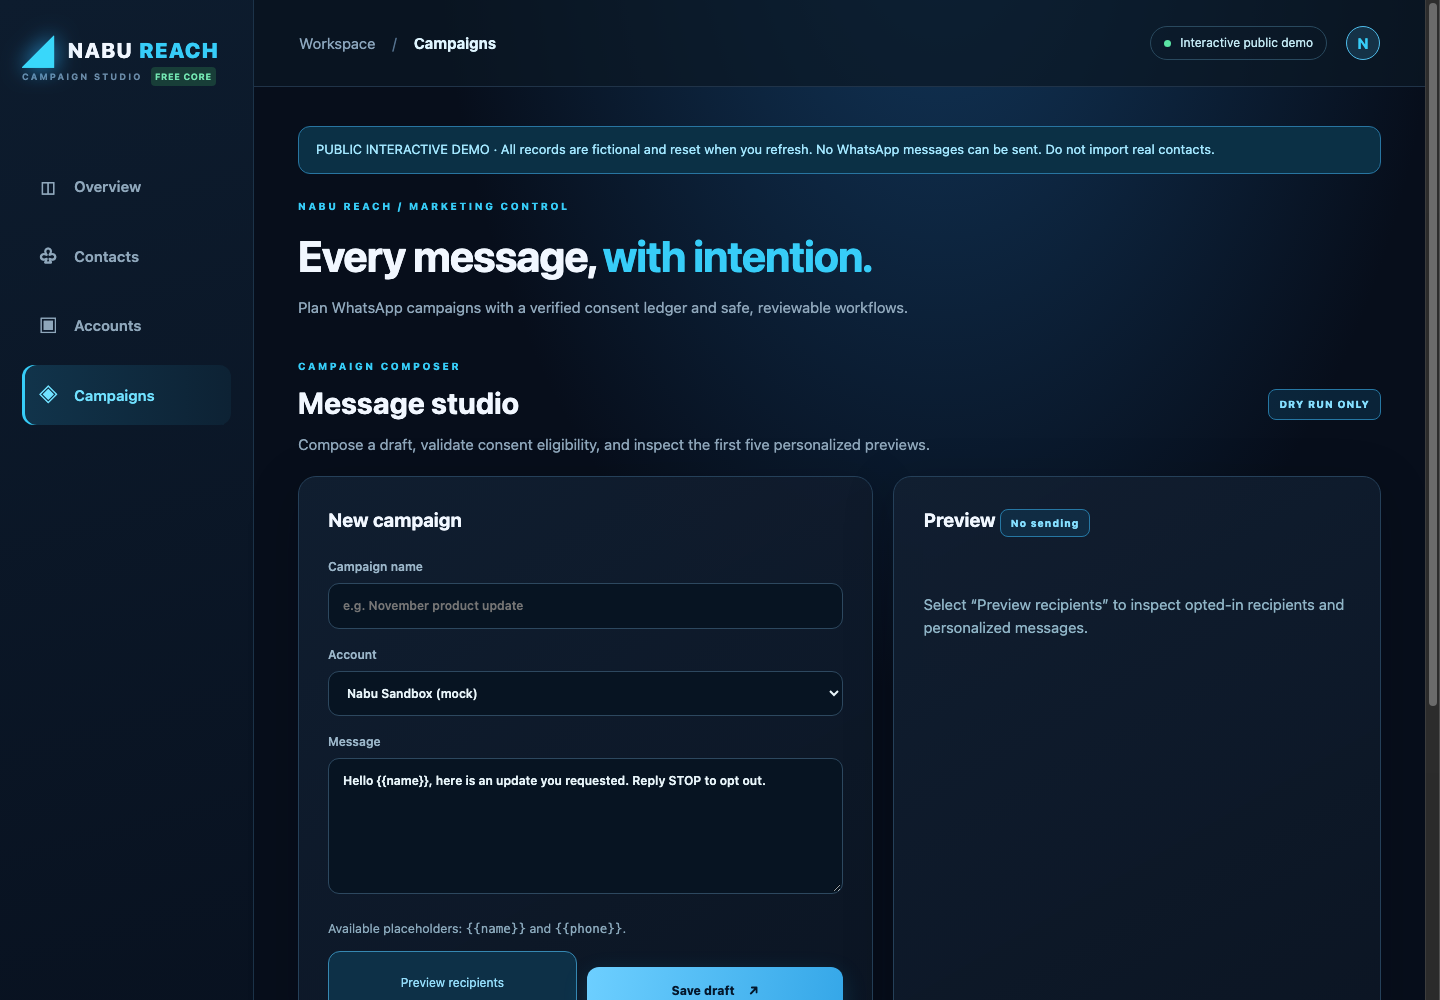
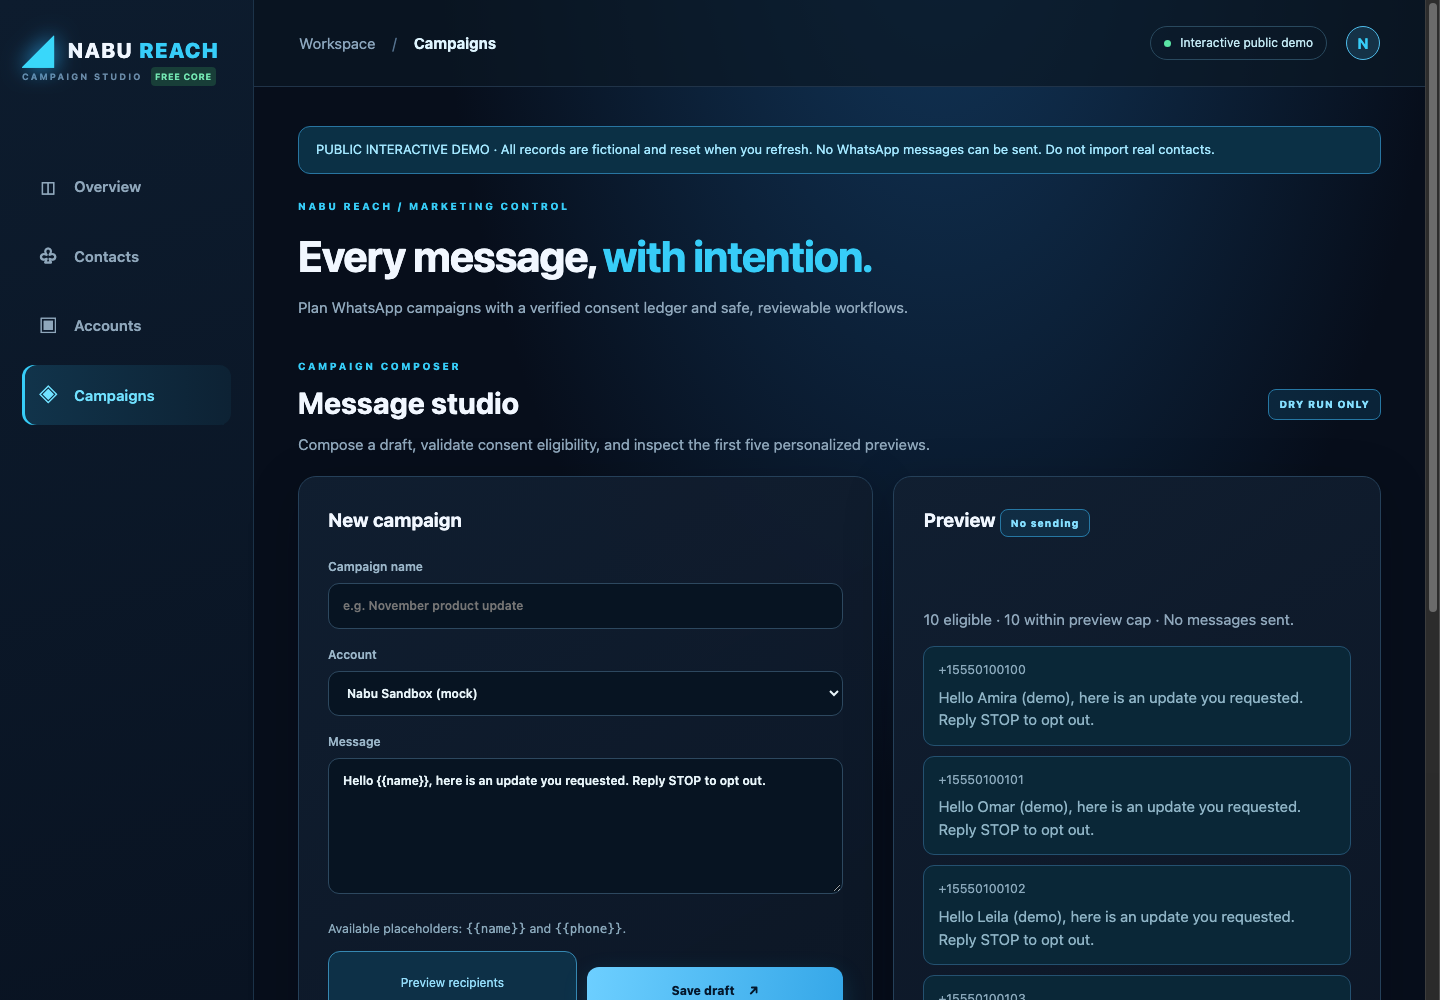
docs: visual README, screenshots and tested static demo

diff --git a/tests/test_demo.js b/tests/test_demo.js
@@ -1,0 +1,34 @@
+'use strict';
+const fs = require('node:fs');
+const vm = require('node:vm');
+const assert = require('node:assert/strict');
+const sandbox = {window:{},TextDecoder,Date,Error};
+vm.runInNewContext(fs.readFileSync('demo/mock.js','utf8'),sandbox);
+const api=sandbox.window.reachDemoApi;
+const post=(path,obj)=>api(path,{method:'POST',body:JSON.stringify(obj)});
+(async () => {
+  const summary=await api('/api/summary');
+  assert.equal(summary.accounts,3);
+  assert.equal(summary.contacts,12);
+  assert.equal(summary.opted_in,10);
+  assert.equal(summary.opted_out,2);
+  const preview=await post('/api/campaigns/preview',{message:'Hello {{name}}'});
+  assert.equal(preview.eligible,10);
+  assert.equal(preview.examples.length,5);
+  assert.match(preview.examples[0].message,/Amira/);
+  await post('/api/contacts/opt-out',{phone:'+15550100100'});
+  assert.equal((await api('/api/summary')).opted_in,9);
+  const csv='phone,name,consent,consent_source,consent_at\n+15550100100,Amira,yes,signup,2026-01-01T12:00:00Z\n+1555010999,Test,yes,signup,2026-01-01T12:00:00Z';
+  const imported=await api('/api/contacts/import',{method:'POST',body:csv});
+  assert.equal(imported.imported,1);
+  assert.equal(imported.skipped,1);
+  assert.equal((await api('/api/summary')).opted_in,10);
+  const account=await post('/api/accounts',{label:'Mock Partner',provider:'mock'});
+  assert.equal(account.status,'mock_ready');
+  await post('/api/campaigns',{name:'Demo draft',account_id:account.id,message:'Hi {{name}}'});
+  assert.equal((await api('/api/summary')).drafts,3);
+  let failed=false;
+  try{await post('/api/campaigns/preview',{message:'{{secret}}'});}catch(_){failed=true;}
+  assert.equal(failed,true);
+  console.log('Mock API checks passed: 14 assertions, no network sends');
+})().catch(e=>{console.error(e);process.exit(1)});

diff --git a/reach/web/app.js b/reach/web/app.js
@@ -14,6 +14,9 @@ function switchTab(tab){
   document.querySelectorAll('[data-tab]').forEach(e=>e.classList.toggle('active',e.dataset.tab===tab));
   $('currentTab').textContent=tab[0].toUpperCase()+tab.slice(1);location.hash=tab;
   refresh();
+  if(tab==="campaigns" && typeof window.reachDemoApi==="function") {
+    setTimeout(()=>$("previewBtn").click(),250); // simulated opt-in previews only
+  }
 }
 async function refresh(){
   try{

diff --git a/README.md b/README.md
@@ -1,122 +1,180 @@
-# Nabu Reach — WhatsApp Campaign Studio (MVP)
+<div align="center">
 
-**Free Core Forever.** Local-first, dependency-free campaign drafting and consent-ledger management for WhatsApp business messaging. This is a working **draft-only proof of concept**, not a live-sending tool.
+# ◢ NABU REACH
 
-![Status: draft-only](https://img.shields.io/badge/messaging-draft--only-blue)
+### WhatsApp Campaign Studio — every message, with intention.
 
-## What works today
+**A beautiful, self-hostable foundation for consent-first outreach, account organization, campaign drafts, and safe previews.**
 
-- Responsive dark-blue/cyan campaign dashboard with accounts, contacts, and drafts.
-- Multiple account records: `mock` is available; `meta_cloud`, `gowa`, and `evolution` are **setup placeholders**, not implemented connections.
-- CSV import with explicit opt-in evidence (`consent_source` and `consent_at`), validation, and row-level errors.
-- Opt-outs cannot be undone by subsequent CSV imports.
-- Message composition and `{{name}}` / `{{phone}}` previews for opted-in contacts only.
-- Draft persistence with SQLite and basic audit events. A hard cap of 50 preview recipients applies.
-- No live send endpoint, background queue, or provider credentials; the UI cannot send WhatsApp messages.
-- No external Python packages; unit/HTTP smoke tests run with the standard library.
+[![Free Core Forever](https://img.shields.io/badge/FREE%20CORE-FOREVER-16a085?style=for-the-badge)](LICENSE)
+[![MIT License](https://img.shields.io/badge/LICENSE-MIT-38bdf8?style=for-the-badge)](LICENSE)
+[![Demo: No Live Sending](https://img.shields.io/badge/DEMO-NO%20LIVE%20SENDING-314158?style=for-the-badge)](docs/SECURITY.md)
+
+**[Live interactive demo](https://reach.nabuxai.com)** · [Quick start](#quick-start) · [Architecture](#architecture) · [Roadmap](#roadmap)
+
+</div>
+
+> [!IMPORTANT]
+> **This release is a draft-only proof of concept.** The public website is an interactive **static simulation**: fictional contacts, no backend database, no credentials, no WhatsApp messages and no network API calls. Edits remain in your browser memory and reset on refresh. Do **not** upload real contact data to a public demo. The separate Python MVP below is **localhost-only** and has **no authentication**.
+
+## ✨ Product tour
+
+#### 01 — Command center
+A quiet navy/cyan workspace for managing account placeholders, verified consent, and draft activity.
+
+![Nabu Reach — actual browser screenshot of the overview](docs/assets/desktop-overview.png)
+
+#### 02 — Message studio
+Preview personalized messages against fictional, opted-in recipients. There is intentionally **no Send button**.
+
+![Nabu Reach — actual browser screenshot of the campaign composer](docs/assets/desktop-campaigns.png)
+
+#### 03 — Responsive by default
+Built for comfortable operation on desktop and compact screens.
+
+<p align="center"><img src="docs/assets/mobile-overview.png" width="340" alt="Nabu Reach mobile overview screenshot"></p>
+
+## What you can use today
+
+| Feature | Local MVP | Live static demo |
+| :-- | :--: | :--: |
+| Dark, responsive dashboard | ✅ | ✅ |
+| Multiple account records | ✅ | ✅ Simulated |
+| CSV contact import + opt-in evidence | ✅ SQLite | ✅ Browser memory |
+| Persistent opt-out suppression on re-import | ✅ | ✅ Within session |
+| Personalization with `{{name}}` and `{{phone}}` | ✅ | ✅ |
+| Recipient preview and campaign drafts | ✅ | ✅ Simulated |
+| Meta Cloud API / GOWA / Evolution adapter | 🔜 Not connected | — |
+| Multi-tenant authorization and roles | 🔜 | — |
+| Actual WhatsApp campaign delivery | **Disabled** | **Impossible** |
+
+**Transparent status matters:** connecting an account placeholder is not the same as a connected WhatsApp Business number. A production-grade sending engine, authentication, compliance controls, and delivery tracking are future work.
 
 ## Quick start
 
-Requirements: Python 3.11+.
+Requirements: Python 3.11+ and no third-party Python packages.
 
 ```bash
-python -m reach.server
-# Open http://127.0.0.1:8787
-python -m unittest discover -s tests -v
+git clone https://github.com/NabuxAi/nabu-reach.git
+cd nabu-reach
+
+# Local developer workspace (do not make this publicly reachable)
+python3 -m reach.server
+# http://127.0.0.1:8787
 ```
 
-Optional local data path:
+Run the test suite:
 
 ```bash
-DB_PATH=/tmp/nabu-reach.sqlite3 python -m reach.server
+python3 -m unittest discover -s tests -v
+node --check reach/web/app.js
+node --check demo/mock.js
 ```
 
-Docker (binds to host loopback only):
+Prefer Docker for the local-only developer app?
 
 ```bash
 docker compose up --build
-# Open http://127.0.0.1:8787
+# Binds only to 127.0.0.1:8787
 ```
 
-The MVP **has no user authentication**. Never publish its port directly to the Internet, place it on a shared computer, or load real customer data until authentication, encryption, retention and privacy requirements have been implemented and reviewed.
+### Static demo — no backend, no database
 
-## Example CSV
+```bash
+python3 demo/build.py
+python3 -m http.server 8081 --directory dist/demo
+# http://127.0.0.1:8081
+```
+
+Or build the static-only image:
+
+```bash
+docker build -f demo/Dockerfile -t nabu-reach-demo .
+docker run --rm -p 127.0.0.1:8081:8080 nabu-reach-demo
+```
+
+Public demo deployments must serve the **static build only**, never the unauthenticated Python API. A sample Traefik/Coolify-network Compose file is available at [deploy/compose.demo.yaml](deploy/compose.demo.yaml); adjust its router labels for your environment.
+
+## Campaign workflow
+
+```mermaid
+flowchart LR
+    A[Account placeholder] --> B[Import CSV]
+    B --> C{Consent evidence?}
+    C -->|No or opted out| D[Suppress contact]
+    C -->|Yes| E[Compose draft]
+    E --> F[Personalized preview]
+    F --> G[Save draft]
+    G --> H[No live send in MVP]
+```
+
+Example consent ledger:
 
 ```csv
 phone,name,consent,consent_source,consent_at
-+15550100101,Example Person,yes,demo_signup_form,2026-01-01T12:00:00Z
++15550100101,Example Person,yes,website_signup,2026-01-01T12:00:00Z
 ```
 
-Demo phone numbers are fictitious; do not message them. `consent` supports `yes`/`no`, `true`/`false`, `1`/`0`, or `opt_in`/`opt_out`. Phone numbers must be E.164 with a leading `+`. Opt-in requires a timestamp with a timezone and the source of that consent. Duplicate phone numbers are updated except that existing opt-outs remain opted out. All content remains local in SQLite.
+Phone numbers use E.164 format, and opt-ins require a source plus timezone-aware timestamp. Imported opt-outs are preserved, including when a later file claims that a suppressed contact opted in again. Never upload real recipient data to the public demo or a GitHub issue.
 
-## API (localhost only)
+## Architecture
 
-| Method | Endpoint | Purpose |
-| --- | --- | --- |
-| GET | `/healthz` | Draft-only health check |
-| GET | `/api/summary` | Workspace counts |
-| GET/POST | `/api/accounts` | Account placeholders |
-| GET | `/api/contacts` | Latest 200 ledger entries |
-| POST | `/api/contacts/import` | Raw `text/csv` import |
-| POST | `/api/contacts/opt-out` | Explicit opt-out by E.164 phone |
-| POST | `/api/campaigns/preview` | Consent-checked preview |
-| GET/POST | `/api/campaigns` | Save / list drafts |
+```mermaid
+flowchart TB
+  subgraph PublicDemo["Public demo — safely isolated"]
+    Browser[Browser-only UI] --> Mock[In-memory sample API]
+    Mock --> Fake[Fictional contacts and drafts]
+  end
+  subgraph LocalMVP["Local developer MVP — localhost only"]
+    UI[Vanilla HTML/CSS/JS] --> Server[Python standard-library HTTP API]
+    Server --> SQLite[(SQLite consent ledger and drafts)]
+    Server --> Disabled[No live send endpoints]
+  end
+  subgraph Future["Future — not implemented"]
+    Auth[Auth / RBAC / tenant isolation] --> Checks[Opt-in and template approval]
+    Checks --> Gateway[Official Meta Cloud API gateway]
+  end
+```
 
-Example:
+**We are not reinventing the messaging infrastructure.** The existing [NabuxAi/whatsapp-mcp](https://github.com/NabuxAi/whatsapp-mcp) project provides a separate gateway for official Meta WhatsApp Cloud API onboarding and MCP tools. The long-term plan is to integrate through a secured server-to-server boundary, not copy tokens or webhooks into this UI. Follow the [integration planning issue](https://github.com/NabuxAi/whatsapp-mcp/issues/1).
+
+## Safety and data privacy
+
+- **Opt-in first:** contacts must have a documented permission source and timestamp.
+- **Opt-out precedence:** CSV re-import must not re-subscribe a suppressed phone number.
+- **Preview-only by design:** neither demo nor MVP can send real messages.
+- **No evasion or spam:** no WhatsApp Web scraping, account rotation for bypassing bans, unsolicited bulk messaging, or rate-limit evasion.
+- **Public demo has no server data:** JavaScript fixtures are ephemeral and never transmitted to a backend.
+- **Local MVP is not a secure SaaS:** it lacks login, user isolation, encrypted SQLite storage, and a production retention/deletion process. Run on a trusted machine only.
+
+Read [Security notes](docs/SECURITY.md) before extending provider support. Unofficial GOWA and Evolution connectors require separate licensing, compatibility, security, and platform-policy review.
+
+## Free Core Forever
+
+The software core is [MIT-licensed](LICENSE). No mandatory subscription, credit card, or paid feature unlock is required for the local MVP or static demo.
+
+Third-party costs are separate and must be disclosed: your own server/domain, operations, and any optional **Meta WhatsApp Business Platform** messaging charges. Pricing depends on destination and Meta's current terms; consult the [official WhatsApp pricing documentation](https://developers.facebook.com/docs/whatsapp/pricing/) before a real deployment.
+
+## Roadmap
+
+- [x] Local Python MVP with accounts, CSV consent ledger, drafts and previews.
+- [x] Static interactive demo with sample data and no live endpoints.
+- [x] Responsive UI and real screenshot documentation.
+- [x] 15 Python unit/HTTP tests + JS syntax verification.
+- [ ] Authentication, RBAC, tenant isolation, encryption, backups and retention.
+- [ ] Secure opt-in / opt-out synchronization with the official gateway.
+- [ ] Approved templates, scheduling, compliant provider quotas, audit trail and delivery status.
+- [ ] Controlled, authorized Meta Cloud API integration after review.
+- [ ] Provider adapter security reviews, CI/e2e tests and accessibility audits.
+
+## Contribute
+
+Bug fixes, accessibility improvements, design polish, test cases, documentation, and secure integrations are welcome. Open an issue before major changes, and include reproduction steps and test evidence. No secret keys or real customer lists in public issues.
 
 ```bash
-curl -s http://127.0.0.1:8787/healthz
-curl -s -X POST http://127.0.0.1:8787/api/accounts \
-  -H 'Content-Type: application/json' -d '{"label":"Demo","provider":"mock"}'
-curl -s -X POST http://127.0.0.1:8787/api/contacts/import \
-  -H 'Content-Type: text/csv' --data-binary @examples/contacts.csv
-curl -s -X POST http://127.0.0.1:8787/api/campaigns/preview \
-  -H 'Content-Type: application/json' -d '{"message":"Hi {{name}}, thanks for opting in."}'
+python3 -m unittest discover -s tests -v
+python3 demo/build.py
+node --check demo/mock.js
 ```
 
-## Architecture and roadmap
-
-```text
-web UI ──> localhost HTTP API ──> SQLite (accounts, consent ledger, drafts, audit)
-                         └──> mock/official provider adapters (future; disabled)
-```
-
-**Existing related project:** [NabuxAi/whatsapp-mcp](https://github.com/NabuxAi/whatsapp-mcp) already offers multi-number management and official Meta WhatsApp Cloud API support. Nabu Reach should integrate via a secure server-to-server interface, **not** recreate that gateway.
-
-The official Meta Cloud API should be the preferred live integration after Meta authorization, security review, approved templates and account-level quotas. GOWA and Evolution may be evaluated as optional self-hosted adapters **only for permitted, opted-in messaging**; unofficial WhatsApp Web integrations can violate platform terms and result in account restrictions. This MVP does **not** implement account rotation, ban-risk optimization, unsolicited bulk messaging, contact scraping, or limit bypasses.
-
-Before a real deployment, implement: owner authentication & RBAC, CSRF defenses appropriate for login cookies, encrypted secrets, tenant isolation, provider authorization, approved-template validation, webhook verification, suppression list synchronization, opt-out keyword handling, bounded queues, per-provider legitimate rate limits, time-window controls, idempotency, observability, backups, privacy and retention controls, and independent security review.
-
-## Costs and licensing
-
-- **Software core:** MIT license, no mandatory card, subscription, or paid upgrade.
-- **Running locally:** no software or hosted service fee.
-- **Self-hosting:** infrastructure, domain, SSL and operational maintenance may cost money.
-- **Meta WhatsApp Business Platform:** message/template pricing and permissions depend on current Meta rules, geography and account status. No message cost occurs in this draft-only MVP.
-- **Unofficial adapters:** not included; their compatibility, licensing and operational risks require separate assessment.
-
-## Security
-
-Read [docs/SECURITY.md](docs/SECURITY.md). Do not upload private customer phone lists to public repositories.
-
-## Try the public interactive demo
-
-**[Launch Nabu Reach demo](https://reach.nabuxai.com)** — a browser-only simulation with fictional sample contacts. It never connects to WhatsApp, never sends messages, and does not persist imported data to a server.
-
-![Nabu Reach dashboard — real screenshot](docs/assets/desktop-overview.png)
-
-The hosted demo and local-first MVP have different trust boundaries:
-
-| | Public interactive demo | Local-first MVP |
-|---|---|---|
-| Storage | Browser memory, reset on reload | Local SQLite |
-| API/backend | None | Python HTTP on localhost |
-| WhatsApp sending | Disabled | Disabled |
-| Authentication | Not needed for synthetic data | Not implemented; localhost only |
-| Real contact data | **Never import** | Only on a trusted local machine |
-
-To build the static demo: `python3 demo/build.py`. Serve `dist/demo` using a static server. A hardened read-only Nginx container is available at `demo/Dockerfile`, and an example reverse-proxy Compose definition is at `deploy/compose.demo.yaml`. The demo blocks network connections with a strict Content Security Policy. Its CSV parser is intentionally simplified for synthetic demo records; use the local MVP for stricter import validation.
-
-## Community
-
-Found a consent, privacy or reliability issue? Open an issue with a minimal reproducible example and no personal data. Contributions are welcome with tests. No mandatory subscription, card or paid API is required for the core.
+Made by the **NabuXAI** community. [MIT License](LICENSE). Built to keep the core free.
